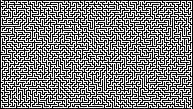
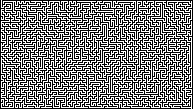
Change randomisation of neighbours

Changed region(s): [[0.0, 0.0, 0.9948, 0.9908]]

diff --git a/main.cpp b/main.cpp
@@ -92,8 +92,7 @@ int main() {
 			stack.push_back(grid[currentX][currentY]);
 
 			// Choose one of the unvisited neighbours
-			float random = LinearFeedbackShift::RandFloatRange(0.0f, (float)(neighbours.size() - 1), 3);
-			int index = (int)roundf(random);
+			unsigned int index = LinearFeedbackShift::RandUInt() % (unsigned int)neighbours.size();
 			Side chosen = neighbours[index];
 
 			// Remove the wall between the current cell and the chosen cell
